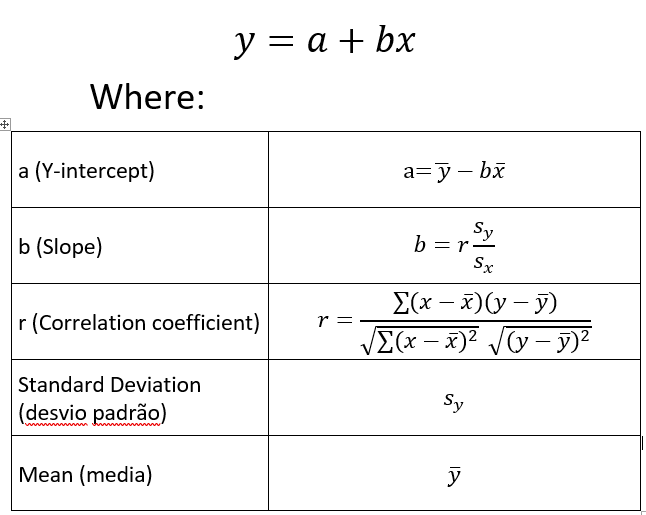
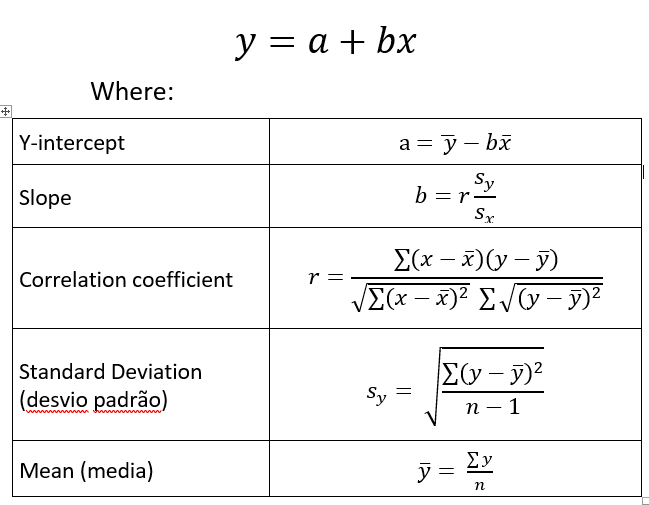
more changes on equations picture in linear regression

diff --git a/MachineLearning/linear_regression.md b/MachineLearning/linear_regression.md
@@ -1,5 +1,10 @@
 # Linear Regression
-- **Linear Regression function:**
+
+## Simple Linear Regression
+- Encontra o relacionamento entre váriaveis, uma dependente e outras independentes.
+  - **Variáveis dependentes** (responses) são as que você está tentando prever, e as **variáveis independentes** (predictors) são as observações(dados) que você utiliza para formar as conclusões.
+  > The core idea is to obtain a line that best fits the data. The best fit line is the one for which total prediction error (all data points) are as small as possible. Error is the distance between the point to the regression line.
+- **Simple Linear Regression function:**
   - ![formulas](./imgs/formulas.png)
     
 
